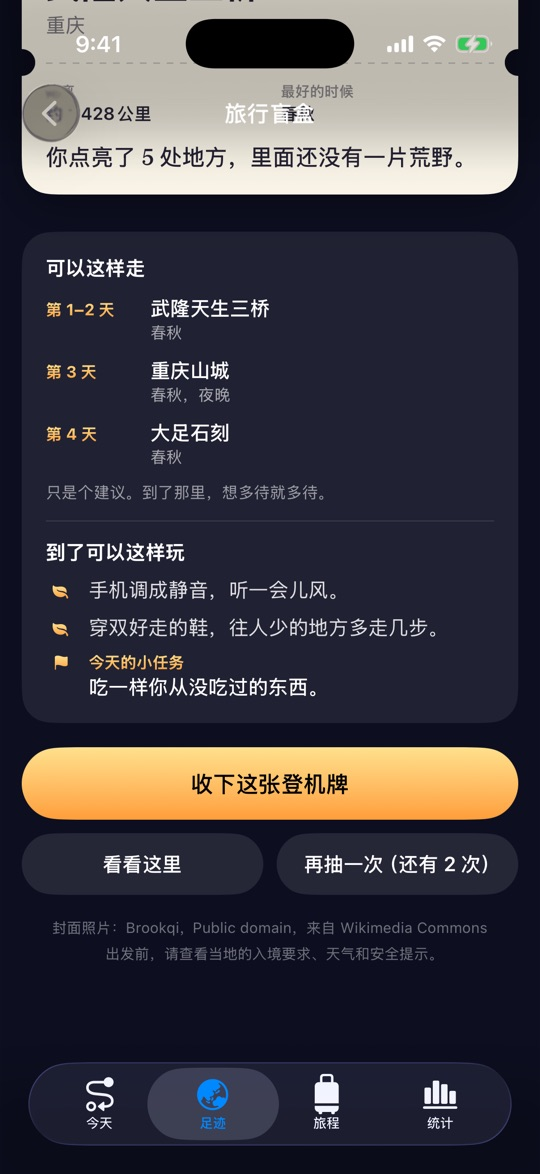
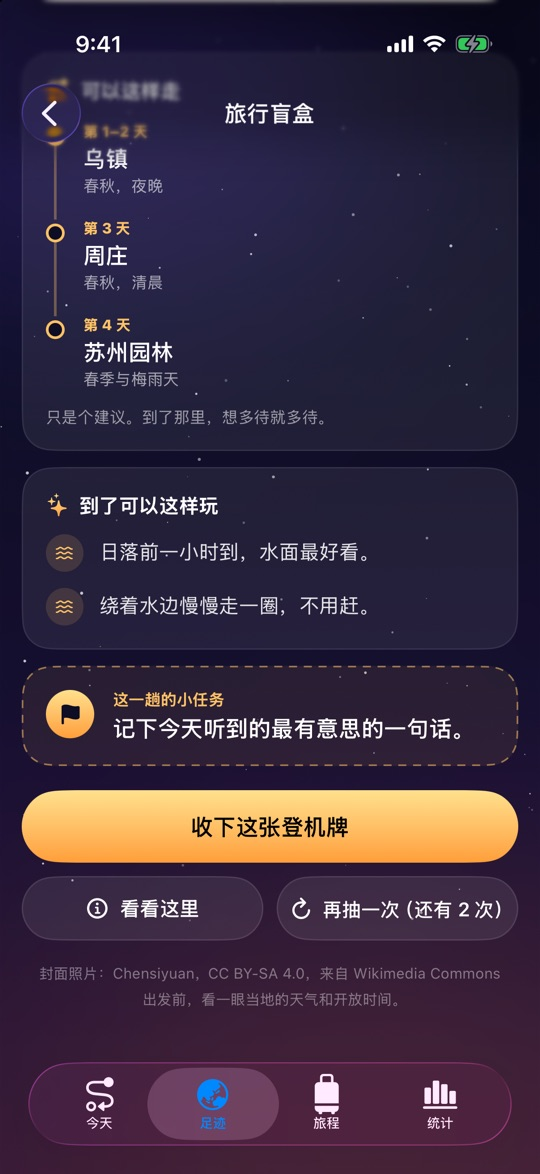
New pictures for the blind box and every road, and stops that stay this side of the border
A longer trip's stops are only looked for in the same country or region as the
place itself: Alishan is close to Gulangyu on the map and a permit away.

diff --git a/RecordPath/Shared/BlindBox.swift b/RecordPath/Shared/BlindBox.swift
@@ -390,9 +390,13 @@ enum BlindBox {
     /// Other places not yet seen close to this one, each next to the last, for a longer trip.
     static func stops(around place: Place, span: Span, context: Context) -> [String] {
         guard span.stopCount > 0, place.mustSeeID != nil else { return [] }
+        // Close by on the map isn't close by if there's a border between: a stop is in the same
+        // country or region as the place itself.
+        let side = countries(of: place)
         var left = (MustSee.china + MustSee.world).filter {
             $0.id != place.id && $0.countryCode == nil && !context.visited.contains($0.id) && !leftOut.contains($0.id)
                 && place.location.distance(from: CLLocation(latitude: $0.latitude, longitude: $0.longitude)) <= span.stopReach * 1000
+                && !countries(of: Place($0)).isDisjoint(with: side)
         }
         var result: [String] = []
         var from = place.location

diff --git a/RecordPathTests/BlindBoxTests.swift b/RecordPathTests/BlindBoxTests.swift
@@ -120,6 +120,17 @@ struct BlindBoxTests {
         #expect(BlindBox.stops(around: .init(place), span: .day, context: .init()).isEmpty)
     }
 
+    @Test func stopsStayOnTheSameSideOfTheBorder() throws {
+        // Alishan is near Gulangyu on the map, and a permit away.
+        let gulangyu = try #require(BlindBox.mustSee(id: "gulangyu"))
+        for span in [BlindBox.Span.holiday, .long] {
+            for id in BlindBox.stops(around: .init(gulangyu), span: span, context: .init()) {
+                let stop = try #require(BlindBox.mustSee(id: id))
+                #expect(BlindBox.countries(of: .init(stop)) == ["CN"], Comment(rawValue: id))
+            }
+        }
+    }
+
     @Test func daysAreSharedOutWithMoreForTheMainPlace() {
         #expect(BlindBox.itinerary(days: 4, places: 3) == [1...2, 3...3, 4...4])
         #expect(BlindBox.itinerary(days: 7, places: 4) == [1...4, 5...5, 6...6, 7...7])

diff --git a/README_en.md b/README_en.md
@@ -200,10 +200,10 @@ Don't know where to go? Open one. Waytrace knows where you've been, where you ha
 - **How much time you have**: a day nearby, a weekend, a long weekend (three to five days) or a long break (about a week, further out).
 - **How you want to feel**: anything, switch off, work up a sweat, old things, or city life.
 - **Press and hold to open**: the box shakes harder and harder, the phone shakes with it, the lid flies off and a boarding pass flips over. Three a day.
-- **A reason that's true**: it only says what your own footprints show, such as "You haven't lit a single must-see in Shanxi. Start here." or "You've lit 5 places, and not one is wild." Places on your wish list, and countries you hold a valid visa for, come up more often. Now and then it simply says: "No reason. That's what a blind box is."
+- **A reason that's true**: it only says what your own footprints show, such as "You haven't lit a single must-see in Shanxi. Start here." or "You've lit 5 places, and not one is a mountain." Places on your wish list, and countries you hold a valid visa for, come up more often. Now and then it simply says: "No reason. That's what a blind box is."
 - **A day nearby**: Apple Maps finds hills, water, old towns and streets near you that you haven't been to, with a time to set off (earlier if you're an early riser), the drive, and that day's weather, with a word if it'll rain. Tap Directions and Apple Maps has the route ready.
-- **Longer breaks**: a route that makes sense, such as "Days 1–2 Hukou Waterfall, Day 3 Mount Hua, Day 4 Terracotta Army", each stop with its best season. Just a suggestion; stay as long as you like.
-- **Once you're there**: two ideas and **a small mission**, like "Arrive an hour before sunset, when the water looks its best" or "Bring home one small thing you can only get here."
+- **Longer breaks**: a route that makes sense, such as "Days 1–2 Mount Fanjing, Day 3 Fenghuang Old Town, Day 4 Zhangjiajie", each stop with its best season. Stops are only looked for in the same country or region, so nothing that needs separate papers gets slipped in. Just a suggestion; stay as long as you like.
+- **Once you're there**: two ideas and **a small mission**, like "You don't need the summit. Stop wherever feels right." or "Write down the best thing you hear today."
 - **Keep the boarding pass**: the place goes on your wish list. Passes never expire, and nothing nags you. They're kept in two groups, waiting for you and reached, and each can take you straight to directions.
 - **When you really get there**: Waytrace knows, and stamps an arrival postmark: "73 days ago, the box gave you this place. And you really came."
 

diff --git a/README.md b/README.md
@@ -202,8 +202,8 @@
 - **长按拆开**：盒子越抖越厉害，手机跟着震，盖子飞开，一张登机牌翻过来。每天能拆 3 次。
 - **一句真实的理由**：只说你的足迹里确实成立的话，比如“离你只有 113 公里，可你还从没来过”“山西的必去之地，你一处都还没点亮”“你点亮了 5 处地方，里面还没有一片荒野”。想去清单里的地方、你手上有有效签证的国家，会更容易被抽到。偶尔也会说：“没有理由。这就是盲盒。”
 - **周边一天游**：用 Apple 地图现场找你身边还没去过的山、水、古迹和街区，告诉你几点出发合适（会看你平时是不是早起的人）、开车大概多久、那天的天气，下雨会提醒你；点“导航过去”，Apple 地图直接把路线查好。
-- **长一点的假期**：给一条顺路的行程，比如“第 1–2 天 武隆天生三桥，第 3 天 重庆山城，第 4 天 大足石刻”，每一站写着最好的季节。只是个建议，想多待就多待。
-- **到了怎么玩**：两个玩法加一个**小任务**，比如“手机调成静音，听一会儿风”“吃一样你从没吃过的东西”。
+- **长一点的假期**：给一条顺路的行程，比如“第 1–2 天 乌镇，第 3 天 周庄，第 4 天 苏州园林”，每一站写着最好的季节，顺路的站只在同一个国家或地区里找，不会把要另办证件的地方排进来。只是个建议，想多待就多待。
+- **到了怎么玩**：两个玩法加一个**小任务**，比如“日落前一小时到，水面最好看”“记下今天听到的最有意思的一句话”。
 - **收下登机牌**：收下的地方会放进“想去”，登机牌不过期，也不催你。登机牌分成“在等你”和“已经到了”两组，每张都能直接导航过去。
 - **真的走到那里**：漫迹会认出来，盖一个到达邮戳：“73 天前，盲盒把这里交给了你。你真的来了。”
 
